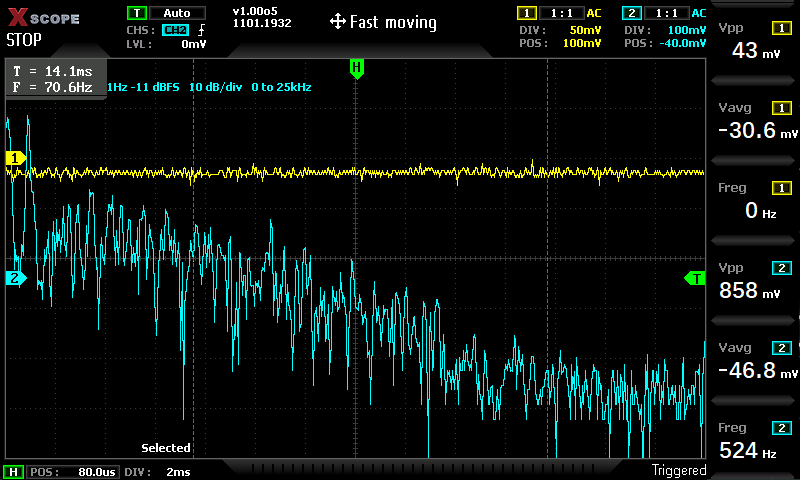
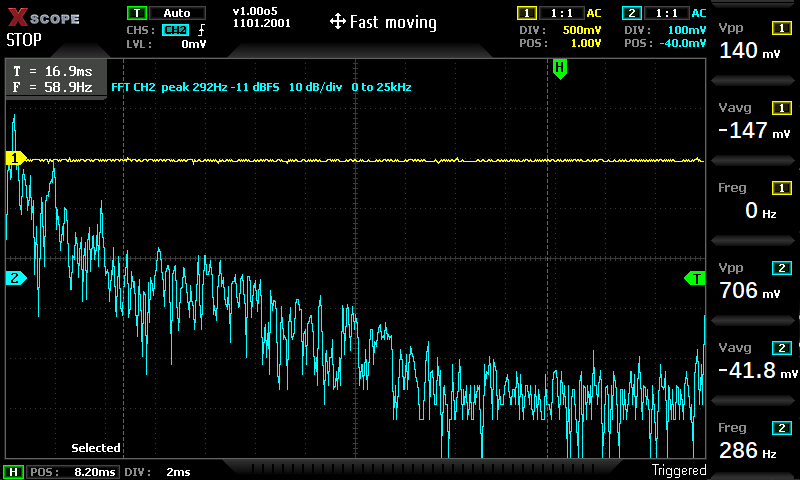
README: contributors section, updated FFT screenshot

diff --git a/README.md b/README.md
@@ -103,8 +103,25 @@ make
 the firmware alone for loading over USB in FEL mode. The installer is built on Windows with
 `installer\build.cmd` after `make`, the application with `build.cmd` in its folder.
 
+## Contributors
+
+**[Marcel Balk](https://github.com/Marcel-Balk)** (2026), X Scope for the FNIRSI 1014D:
+
+- Port to the 1014D front panel: every function reachable from the keys and knobs, with the
+  Display & analysis, Utilities, Channel, Reference waves and Diagnostics menus
+- FFT, math, sin(x)/x, averaging, reference waveforms, trigger hold off, cursor lock, input
+  (gain) calibration and CSV export
+- Data cache (MMU, write-through): screen updates from about 10 to about 40 per second, menus and
+  knobs without lag
+- X Scope logo, start screen and main menu icons
+- USB remote control: command protocol, serial mode at start, X Scope Remote for Windows
+- USB fixes: transmit FIFO address, transmit timeout, screen turning white while a PC polls
+- Time base and V/div changed while stopped now apply when acquisition starts again, FFT readout
+  placed next to the T/F box
+- Windows installer, SD card image packer and build files
+
 ## License
 
-GPLv3, see [LICENSE](LICENSE). X Scope is a modified version (2026) of GPLv3 licensed open
-firmware for FNIRSI oscilloscopes. FatFs is copyright ChaN under its own license, included in
+GPLv3, see [LICENSE](LICENSE). X Scope is a modified version (2026, Marcel Balk) of GPLv3
+licensed open firmware for FNIRSI oscilloscopes. FatFs is copyright ChaN under its own license, included in
 the source files.
